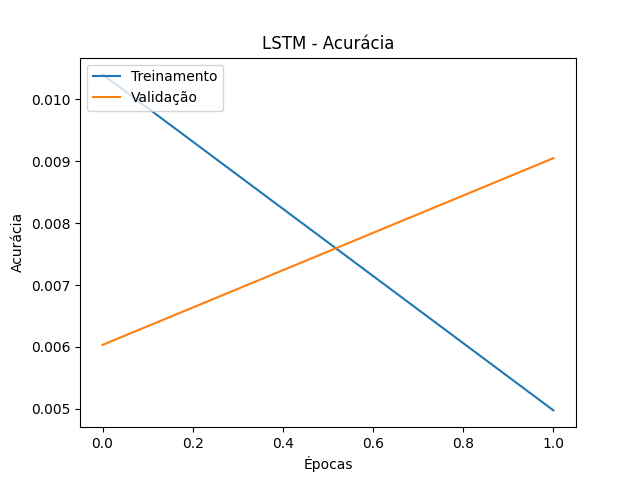
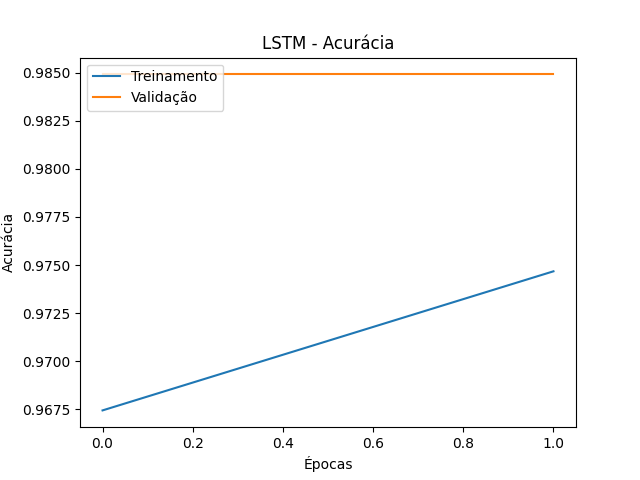
[UPD] Adicionado uma versão inicial da detecção com o modelo LSTM

diff --git a/models/ModelLSTM.py b/models/ModelLSTM.py
@@ -7,7 +7,7 @@ import matplotlib
 import numpy as np
 import matplotlib.pyplot as plt
 from keras.models import Sequential
-from keras.layers import Dense, LSTM
+from keras.layers import Dense, LSTM, Dropout
 from pathlib import Path
 from keras import backend
 from models.Model import Model, rmseMetric
@@ -68,31 +68,37 @@ class ModelLSTM(Model):
 
         # insere a camada de entrada
         input_layer = layers.pop(0)
-        if input_layer['type'] == self.LAYER_MLP:
-            self.model.add(Dense(
-                input_layer['qtd_neurons'],
-                kernel_initializer='uniform',
-                activation=input_layer['activation'],
-                input_dim=self.data['x_train'].shape[1],
-            ))
-        elif input_layer['type'] == self.LAYER_LSTM:
-            print('return_sequences')
-            print(True if input_layer['return_sequences'] else False)
-            self.model.add(LSTM(
-                input_layer['qtd_neurons'],
-                kernel_initializer='uniform',
-                activation=input_layer['activation'],
-                # input_shape=(NUM_ENTRADAS, QTD_INFO_POR_ENTRADA)
-                input_shape=(self.data['x_train'].shape[1], self.data['x_train'].shape[2]),
-                return_sequences=True if input_layer['return_sequences'] else False
-            ))
-        else:
-            raise Exception('Camada de entrada inválida! ')
+        self.model.add(LSTM(
+            input_layer['qtd_neurons'],
+            kernel_initializer='uniform',
+            activation=input_layer['activation'],
+            # input_shape=(NUM_ENTRADAS, QTD_INFO_POR_ENTRADA)
+            input_shape=(self.data['x_train'].shape[1], self.data['x_train'].shape[2]),
+            return_sequences=True if input_layer.get('return_sequences') else False
+        ))
 
         # insere as camadas intermediárias e de saída
         for layer in layers:
-            self.model.add(Dense(
-                layer['qtd_neurons'],
-                kernel_initializer='uniform',
-                activation=layer['activation'],
-            ))
+            # valida se é uma camada LSTM
+            if layer['type'] == Model.LAYER_LSTM:
+                self.model.add(LSTM(
+                    layer['qtd_neurons'],
+                    kernel_initializer='uniform',
+                    activation=layer['activation'],
+                    # input_shape=(NUM_ENTRADAS, QTD_INFO_POR_ENTRADA)
+                    return_sequences=True if layer.get('return_sequences') else False
+                ))
+                continue
+            # valida se é uma camada MLP
+            if layer['type'] == Model.LAYER_MLP:
+                self.model.add(Dense(
+                    layer['qtd_neurons'],
+                    kernel_initializer='uniform',
+                    activation=layer['activation'],
+                ))
+                continue
+            # valida se é uma camada de DROPOUT
+            if layer['type'] == Model.LAYER_DROPOUT:
+                self.model.add(Dropout(layer['value']))
+                continue
+            raise Exception('Camada inválida! ')

diff --git a/01teste.py b/01teste.py
@@ -6,7 +6,7 @@ from models.ModelLSTM import ModelLSTM
 from sklearn.model_selection import train_test_split
 
 EPOCHS = 2
-BATCH_SIZE = 1
+BATCH_SIZE = 100
 
 
 def main():
@@ -45,30 +45,56 @@ def main():
     print('Quantidade de registros para teste: %i ' % len(x_test))
     print('Quantidade de épocas: %i' % EPOCHS)
 
-    # Exemplo MLP
+    # # Exemplo MLP
+    # layers = [
+    #     # camada de entrada
+    #     {
+    #         'qtd_neurons': 12,
+    #         'activation': Model.ATIVACAO_RELU,
+    #     },
+    #     # camada intermediária 01
+    #     {
+    #         'qtd_neurons': 8,
+    #         'activation': Model.ATIVACAO_RELU,
+    #     },
+    #     # camada de saída
+    #     {
+    #         'qtd_neurons': 1,
+    #         'activation': Model.ATIVACAO_SIGMOID,
+    #     },
+    # ]
+    # model_mlp = ModelMLP(EPOCHS, BATCH_SIZE, layers, data)
+    # model_mlp.predict()
+
+    # Exemplo LSTM
     layers = [
         # camada de entrada
         {
+            # a primeira camada sempre é LSTM
             'qtd_neurons': 12,
             'activation': Model.ATIVACAO_RELU,
+            'return_sequences': True,
         },
         # camada intermediária 01
         {
+            'type': Model.LAYER_DROPOUT,
+            'value': 0.2,
+        },
+        # camada intermediária 02
+        {
+            'type': Model.LAYER_LSTM,
             'qtd_neurons': 8,
             'activation': Model.ATIVACAO_RELU,
         },
         # camada de saída
         {
+            'type': Model.LAYER_MLP,
             'qtd_neurons': 1,
             'activation': Model.ATIVACAO_SIGMOID,
         },
     ]
-    model_mlp = ModelMLP(EPOCHS, BATCH_SIZE, layers, data)
-    model_mlp.predict()
-
-    # # cria o modelo e inicia a detecção
-    # model_lstm = ModelLSTM(EPOCHS, BATCH_SIZE, layers, data)
-    # model_lstm.predict()
+    model_lstm = ModelLSTM(EPOCHS, BATCH_SIZE, layers, data)
+    model_lstm.predict()
 
     fim = time.time()
     print('Detecção de fake news realizada com sucesso! ')

diff --git a/models/Model.py b/models/Model.py
@@ -125,8 +125,7 @@ class Model:
         print('=> Modelo ' + self.model_name)
         for key, layer in enumerate(self.layers):
             print('camada_%i: ' % (key + 1), end='')
-            print('qtd_neurons: %i; ' % layer['qtd_neurons'], end='')
-            print('activation_fn: %s; ' % layer['activation'])
+            print(layer)
 
         print('=> Métricas')
         # quanto menor a perda, mais próximas nossas previsões são dos rótulos verdadeiros.
